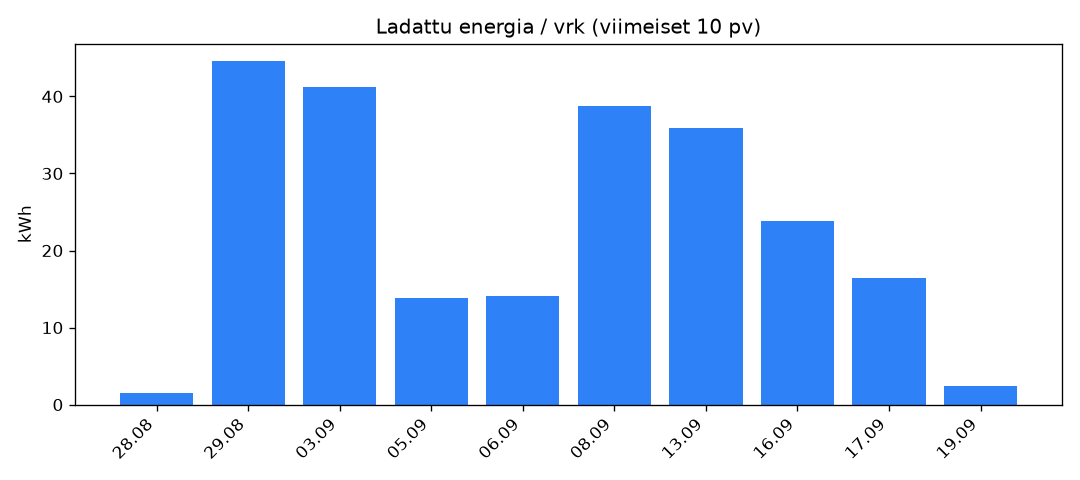
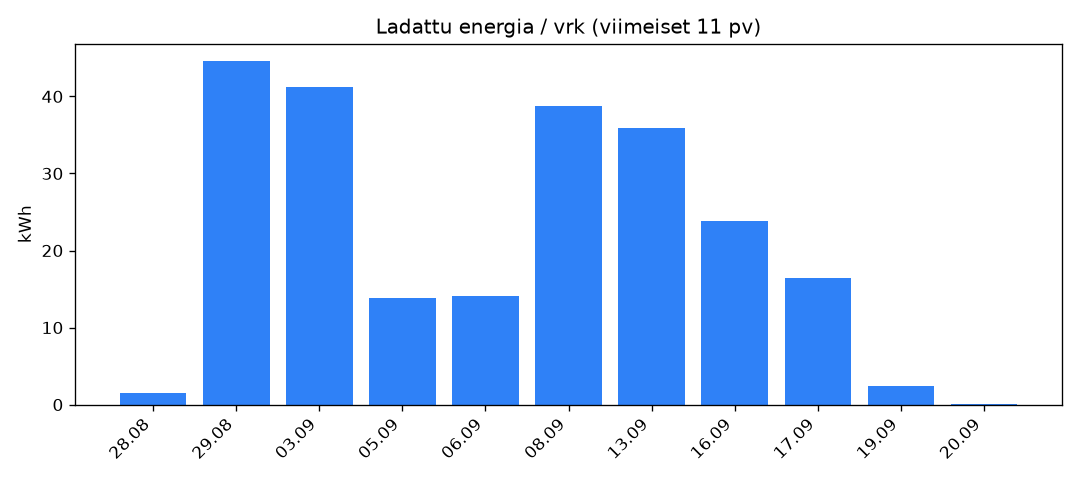
Päivitetty lataustilan mittaus ja yhteenveto 2026-09-20T00:00:56Z

diff --git a/README.md b/README.md
@@ -6,16 +6,16 @@ voi myöhemmin verrata pörssisähkön tuntihintoihin.
 <!-- SUMMARY_START -->
 ### 📊 Latausdatan yhteenveto
 
-_Päivitetty automaattisesti: 19.09.2026 klo 23:45 (UTC)_
+_Päivitetty automaattisesti: 20.09.2026 klo 00:00 (UTC)_
 
 _Kustannus lasketaan varttitasolla (15 min) todellista kulutusta vastaan, samalla tavalla kuin sähköyhtiö laskuttaa 1.10.2025 alkaen - ei tunnin sisäisten varttien tasapainoista keskiarvoa._
 
 _Energialukujen skaalaus kalibroitiin 28.8.2026 tunnettua mittarilukemaa vasten (ks. goe_logger.py:n kommentit)._
 
-- **Yhteensä ladattu:** 232.7 kWh (28.08.2026 – 19.09.2026)
-- **Viimeiset 24 h:** 2.45 kWh
-- **Viimeiset 7 vrk:** 78.65 kWh
-- **Keskiarvo / vrk:** 10.60 kWh
+- **Yhteensä ladattu:** 232.7 kWh (28.08.2026 – 20.09.2026)
+- **Viimeiset 24 h:** 2.50 kWh
+- **Viimeiset 7 vrk:** 62.27 kWh
+- **Keskiarvo / vrk:** 10.50 kWh
 
 - **Pörssisähkön kustannus (spot + marginaali 0.39 snt/kWh + ALV 25.5%):** 3.38 € (1.45 snt/kWh, kulutuspainotettu keskihinta)
   <br>_josta pelkkä spot-hinta (ilman marginaalia/ALV:tä): 0.77 snt/kWh_
